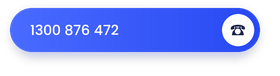
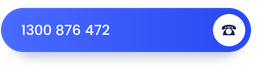
Align phone button flush with left text edge

Changed region(s): [[0.0, 0.1053, 0.4428, 0.6842], [0.7675, 0.1053, 0.9446, 0.6842]]

diff --git a/public/email-signature.html b/public/email-signature.html
@@ -38,7 +38,7 @@
         <tr>
           <td style="padding:0 0 8px 0;">
             <a href="tel:1300876472" style="text-decoration:none;">
-              <img src="https://naturogroup.com.au/images/btn-phone.png?v=6" alt="Call 1300 876 472" width="280" style="display:block;border:0;outline:none;width:280px;height:auto;" />
+              <img src="https://naturogroup.com.au/images/btn-phone.png?v=7" alt="Call 1300 876 472" width="271" style="display:block;border:0;outline:none;width:271px;height:auto;" />
             </a>
           </td>
         </tr>
